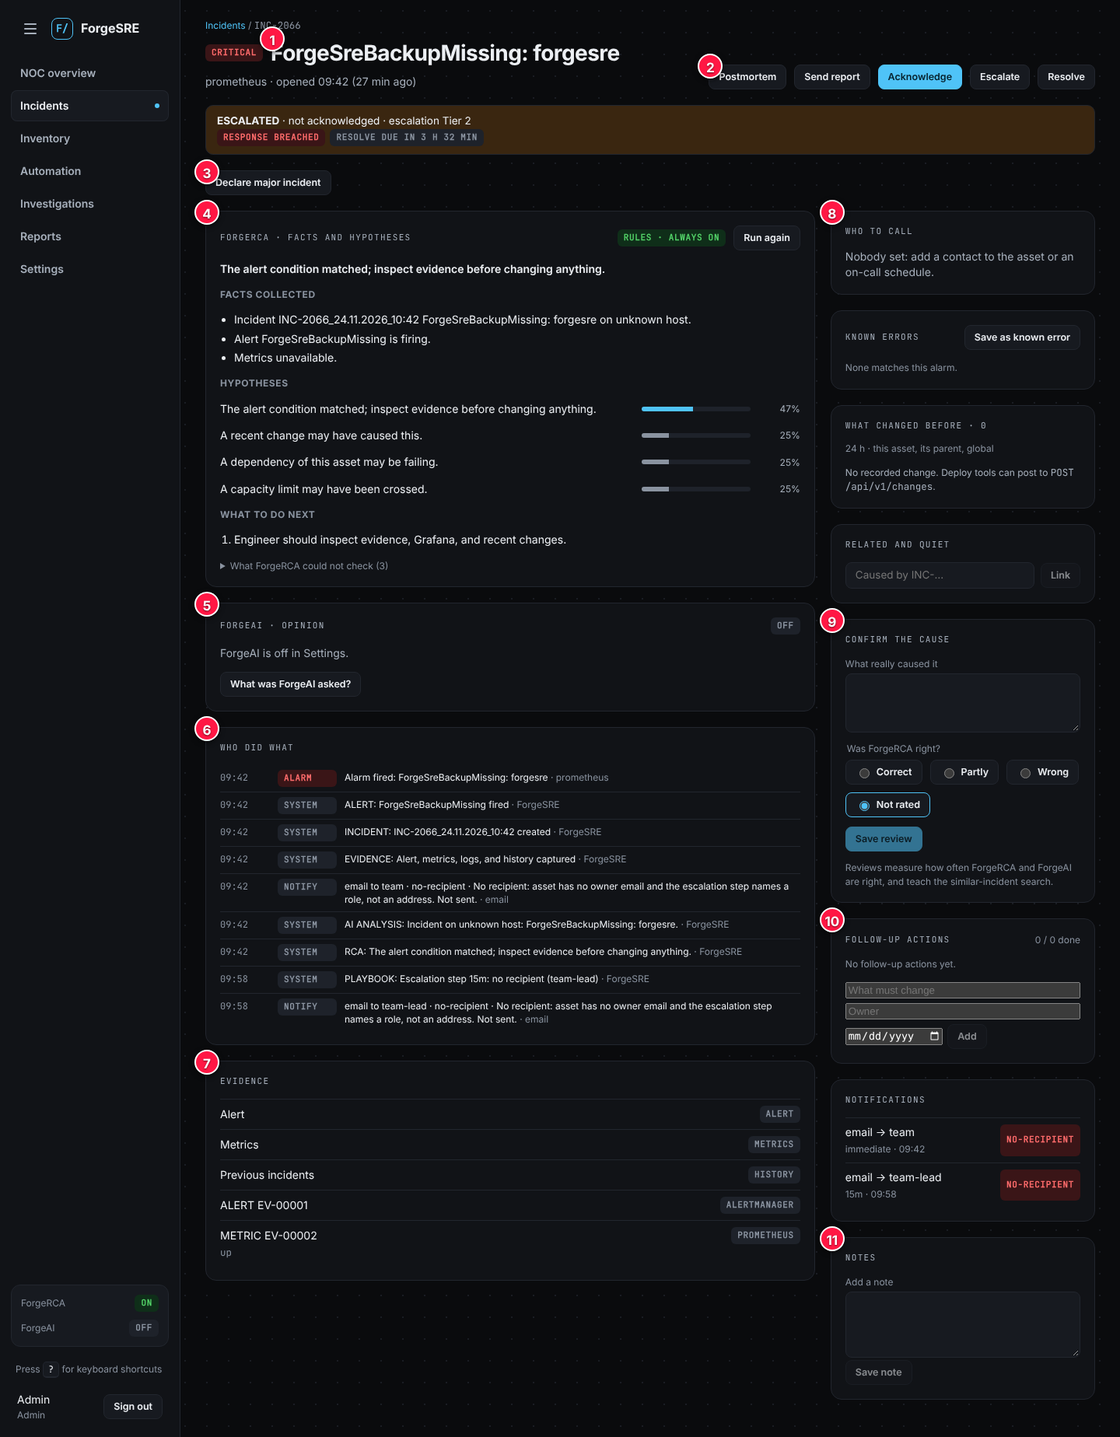
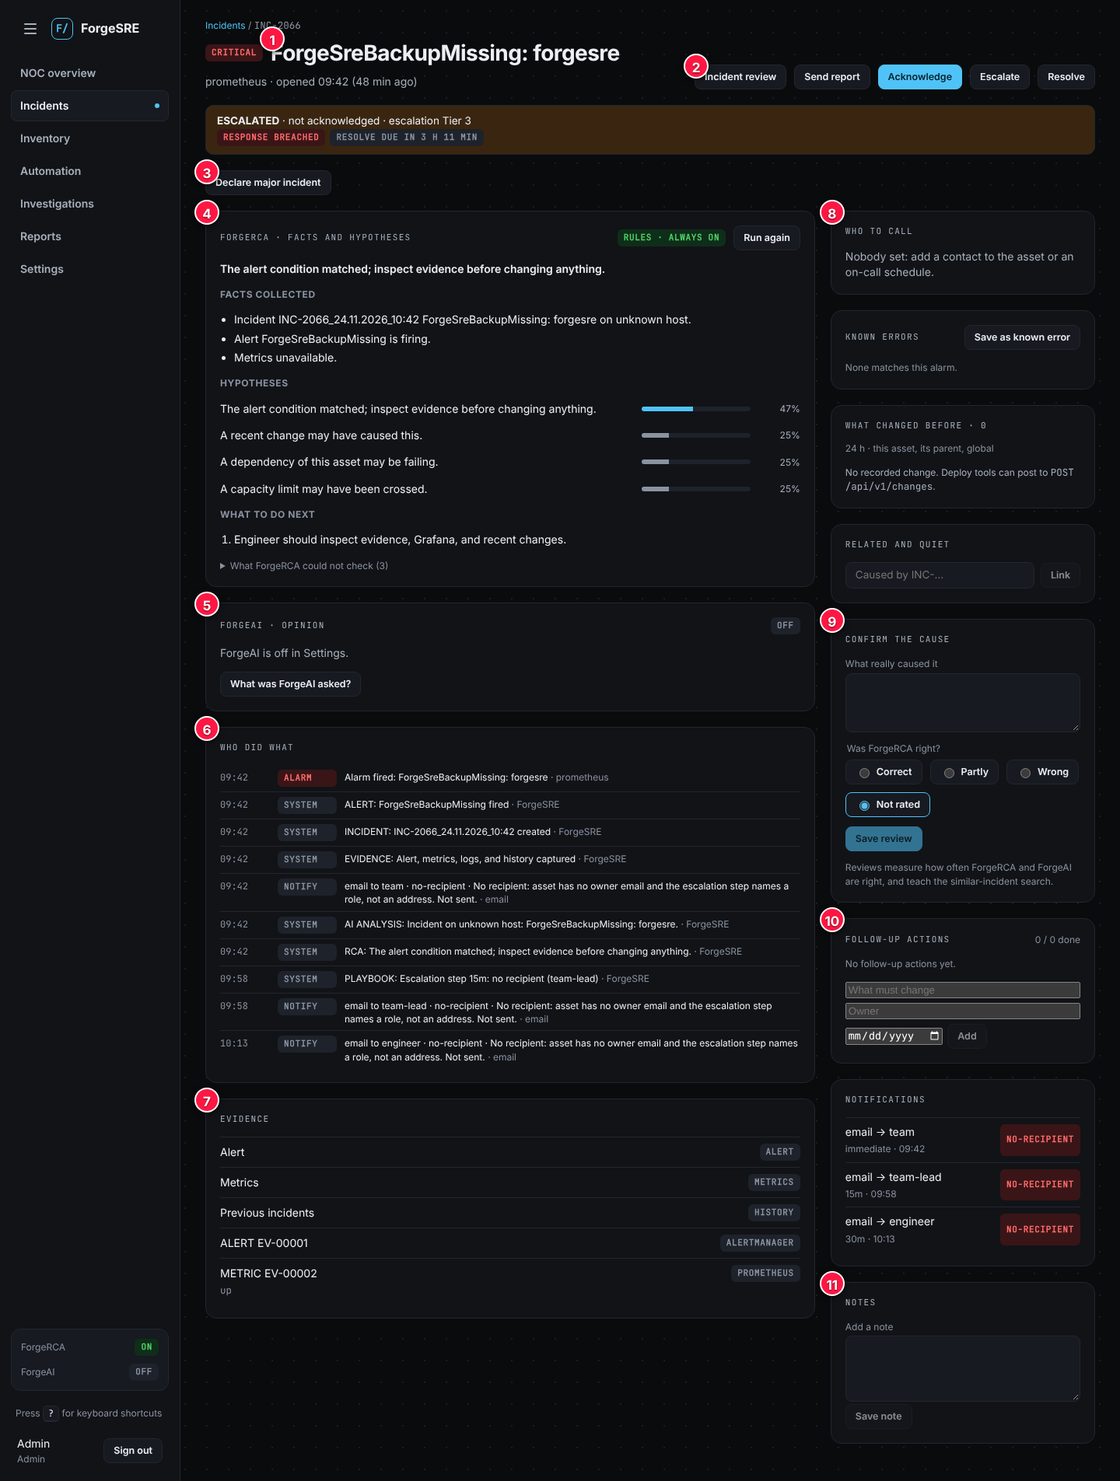
Rename Postmortem to Incident review in the UI, the draft and the docs; fix a dated Oxidized test (#255)
Claude-Session: https://claude.ai/code/session_01K9hus2JZBeXGjiRoAgeJJH

diff --git a/web/src/components/ForgeAiCard.tsx b/web/src/components/ForgeAiCard.tsx
@@ -23,7 +23,7 @@ export type Call = {
 };
 
 const STATUS_TONE: Record<string, "ok" | "crit" | "warn" | "off"> = { used: "ok", rejected: "warn", error: "crit", trial: "off" };
-const TASK: Record<string, string> = { incident: "Cause and first checks", investigate: "Investigation with tools", explain: "Explain for Tier 1", postmortem: "Postmortem summary", ask: "Your question", shift: "Shift summary" };
+const TASK: Record<string, string> = { incident: "Cause and first checks", investigate: "Investigation with tools", explain: "Explain for Tier 1", postmortem: "Incident review summary", ask: "Your question", shift: "Shift summary" };
 
 function pretty(text = ""): string {
   try {
@@ -85,7 +85,7 @@ export function CallLog({ calls }: { calls: Call[] }) {
   );
 }
 
-/** ForgeAI on the incident page: the checked answer, explain / postmortem, ask again with another skill, the call log. */
+/** ForgeAI on the incident page: the checked answer, explain / incident review, ask again with another skill, the call log. */
 export function ForgeAiCard({ number, view, canAsk, onChanged }: { number: string; view: ForgeAiView; canAsk: boolean; onChanged: () => void }) {
   const [skill, setSkill] = useState("");
   const [busy, setBusy] = useState("");
@@ -157,7 +157,7 @@ export function ForgeAiCard({ number, view, canAsk, onChanged }: { number: strin
       ) : null}
       {view.extras?.postmortem ? (
         <div className="cell-stack" style={{ gap: 4, borderTop: "1px solid var(--border)", paddingTop: 8 }}>
-          <span className="small faint">Postmortem summary (goes into the Postmortem draft)</span>
+          <span className="small faint">Incident review summary (goes into the incident review draft)</span>
           <span>{view.extras.postmortem.answer.paragraph}</span>
         </div>
       ) : null}
@@ -191,7 +191,7 @@ export function ForgeAiCard({ number, view, canAsk, onChanged }: { number: strin
           <button className="btn" type="button" disabled={Boolean(busy)} onClick={() => ask("incident", "Asking…")}>{busy === "Asking…" ? busy : a ? "Ask again" : "Ask ForgeAI"}</button>
           <button className="btn" type="button" disabled={Boolean(busy)} onClick={() => ask("investigate", "Investigating…")} title="Several steps with read-only tools: metrics, logs, interfaces, similar incidents (1–4 min)">{busy === "Investigating…" ? busy : "Investigate with tools"}</button>
           <button className="btn" type="button" disabled={Boolean(busy)} onClick={() => ask("explain", "Explaining…")}>{busy === "Explaining…" ? busy : "Explain for Tier 1"}</button>
-          <button className="btn" type="button" disabled={Boolean(busy)} onClick={() => ask("postmortem", "Writing…")}>{busy === "Writing…" ? busy : "Postmortem summary"}</button>
+          <button className="btn" type="button" disabled={Boolean(busy)} onClick={() => ask("postmortem", "Writing…")}>{busy === "Writing…" ? busy : "Incident review summary"}</button>
         </div>
       ) : null}
       {busy ? <span className="small faint">The local model takes 30–90 seconds. You can leave this page; the answer stays on the incident.</span> : null}

diff --git a/web/src/components/PostmortemPanel.tsx b/web/src/components/PostmortemPanel.tsx
@@ -2,7 +2,7 @@ import { useEffect, useState } from "react";
 import { getJson } from "../lib/api";
 import { Card } from "./ui";
 
-/** Postmortem draft for one incident: preview, copy, download .md. Gaps are marked [to fill]. */
+/** Incident review (postmortem) draft for one incident: preview, copy, download .md. Gaps are marked [to fill]. */
 export function PostmortemPanel({ number, onClose }: { number: string; onClose: () => void }) {
   const [text, setText] = useState("");
   const [error, setError] = useState("");
@@ -13,7 +13,7 @@ export function PostmortemPanel({ number, onClose }: { number: string; onClose: 
   const copy = () => navigator.clipboard?.writeText(text).then(() => setCopied(true)).catch(() => setError("Copy is blocked here; use Download."));
   const gaps = (text.match(/\[to fill\]/g) ?? []).length;
   return (
-    <Card title="Postmortem draft" actions={
+    <Card title="Incident review draft" actions={
       <>
         <span className="small faint">{gaps ? `${gaps} gaps to fill in the review` : ""}</span>
         <button className="btn" type="button" onClick={copy} disabled={!text}>{copied ? "Copied" : "Copy Markdown"}</button>

diff --git a/web/src/components/PostmortemPanel.test.tsx b/web/src/components/PostmortemPanel.test.tsx
@@ -5,7 +5,7 @@ import { PostmortemPanel } from "./PostmortemPanel";
 describe("Postmortem panel", () => {
   afterEach(() => (cleanup(), vi.unstubAllGlobals()));
   it("shows the draft, counts the gaps and offers a download", async () => {
-    vi.stubGlobal("fetch", vi.fn(async () => new Response(JSON.stringify({ markdown: "# Postmortem: INC-1\n\n- [to fill]\n| [to fill] | [to fill] |\n" }), { status: 200, headers: { "Content-Type": "application/json" } })));
+    vi.stubGlobal("fetch", vi.fn(async () => new Response(JSON.stringify({ markdown: "# Incident review: INC-1\n\n- [to fill]\n| [to fill] | [to fill] |\n" }), { status: 200, headers: { "Content-Type": "application/json" } })));
     render(<PostmortemPanel number="INC-1" onClose={() => undefined} />);
     expect(await screen.findByText("3 gaps to fill in the review")).toBeTruthy();
     expect(screen.getByRole("link", { name: "Download .md" }).getAttribute("href")).toBe("/api/v1/incidents/INC-1/postmortem?download=1");

diff --git a/web/src/pages/IncidentDetail.tsx b/web/src/pages/IncidentDetail.tsx
@@ -75,7 +75,7 @@ export function IncidentDetailPage() {
           </span>
         </div>
         <div className="row">
-          <button className="btn" type="button" onClick={() => setPostmortem(!postmortem)} aria-expanded={postmortem}>Postmortem</button>
+          <button className="btn" type="button" onClick={() => setPostmortem(!postmortem)} aria-expanded={postmortem}>Incident review</button>
           {data.can.work ? <button className="btn" type="button" onClick={() => setMail(!mail)} aria-expanded={mail}>Send report</button> : null}
           {data.ticket ? (
             <a className="btn" href={data.ticket.url} target="_blank" rel="noopener noreferrer">Ticket {data.ticket.ref.replace("glpi:", "#")}{data.ticket.status ? ` · ${data.ticket.status}` : ""}</a>

diff --git a/tests/test_network_config.py b/tests/test_network_config.py
@@ -2,13 +2,12 @@
 
 from __future__ import annotations
 
+from datetime import timedelta
 from pathlib import Path
 from uuid import uuid4
 
 import pytest
 import yaml
-from fastapi.testclient import TestClient
-
 from app.changes import changes_before
 from app.cli_ops import format_network
 from app.db import Base, SessionLocal, engine
@@ -18,6 +17,7 @@ from app.models import Asset, ChangeEvent, ConfigNode, Incident, utcnow
 from app.network_view import overview, routing_metrics_on
 from app.oxidized import sync
 from app.seed import seed
+from fastapi.testclient import TestClient
 from test_incident_tools import _client
 
 ROOT = Path(__file__).resolve().parents[1]
@@ -101,12 +101,14 @@ def test_oxidized_first_read_is_baseline_then_changes_are_recorded(monkeypatch):
     db = _db()
     db.add(Asset(asset_id="nc-core", hostname="nc-core", ip=_ip(), type="Router"))
     db.commit()
-    nodes = [{"name": "nc-core", "full_name": "nc-dc1/nc-core", "ip": "10.9.9.1", "model": "ios", "mtime": "2026-11-23 08:00:00 UTC", "last": {"status": "success"}},
-             {"name": "nc-unknown", "full_name": "nc-dc1/nc-unknown", "ip": "10.9.9.2", "mtime": "2026-11-23 08:00:00 UTC", "last": {"status": "no_connection"}}]
+    # mtimes relative to now: the incident below looks back 24 hours for changes
+    at = lambda hours_ago: (utcnow() - timedelta(hours=hours_ago)).strftime("%Y-%m-%d %H:%M:%S UTC")  # noqa: E731
+    nodes = [{"name": "nc-core", "full_name": "nc-dc1/nc-core", "ip": "10.9.9.1", "model": "ios", "mtime": at(3), "last": {"status": "success"}},
+             {"name": "nc-unknown", "full_name": "nc-dc1/nc-unknown", "ip": "10.9.9.2", "mtime": at(3), "last": {"status": "no_connection"}}]
     first = sync(db, nodes)
     assert first == {"nodes": 2, "changed": 0, "failed_backups": 1}
-    nodes[0]["mtime"] = "2026-11-23 10:15:00 UTC"
-    nodes[1]["mtime"] = "2026-11-23 10:20:00 UTC"
+    nodes[0]["mtime"] = at(1)
+    nodes[1]["mtime"] = at(0.5)
     second = sync(db, nodes)
     assert second["changed"] == 2
     rows = {r.title: r for r in db.query(ChangeEvent).filter(ChangeEvent.source == "oxidized").all()}

diff --git a/tests/test_postmortem.py b/tests/test_postmortem.py
@@ -1,4 +1,4 @@
-"""Postmortem draft: facts from the incident, gaps marked, file download."""
+"""Incident review (postmortem) draft: facts from the incident, gaps marked, file download."""
 
 from __future__ import annotations
 
@@ -32,8 +32,8 @@ def test_postmortem_has_facts_and_marks_gaps():
     client = _signed_in("viewer")
     data = client.get(f"/api/v1/incidents/INC-P{tag}/postmortem").json()
     md = data["markdown"]
-    assert data["filename"] == f"postmortem-INC-P{tag}.md"
-    assert md.startswith(f"# Postmortem: INC-P{tag} · Uplink down")
+    assert data["filename"] == f"incident-review-INC-P{tag}.md"
+    assert md.startswith(f"# Incident review: INC-P{tag} · Uplink down")
     assert "after 7 min" in md and "after 1 h 35 min" in md
     assert "3 asset(s) sit behind" in md
     assert "Failed SFP on Gi1/0/48 *(from the incident review by marko@dc.local)*" in md
@@ -42,5 +42,5 @@ def test_postmortem_has_facts_and_marks_gaps():
     assert md.count("[to fill]") >= 5
     file = client.get(f"/api/v1/incidents/INC-P{tag}/postmortem?download=1")
     assert file.status_code == 200 and file.headers["content-type"].startswith("text/markdown")
-    assert f'filename="postmortem-INC-P{tag}.md"' in file.headers["content-disposition"]
+    assert f'filename="incident-review-INC-P{tag}.md"' in file.headers["content-disposition"]
     assert client.get("/api/v1/incidents/INC-NOPE/postmortem").status_code == 404

diff --git a/scripts/visual_guide.py b/scripts/visual_guide.py
@@ -115,8 +115,8 @@ PAGES: list[Page] = [
          "Everything about one incident: what happened, what ForgeRCA thinks, who did what.",
          "Sve o jednom incidentu: šta se desilo, šta misli ForgeRCA, ko je šta uradio.", [
              Step("main h1", "Severity and name; source and when it opened under it.", "Ozbiljnost i ime; ispod izvor i kada je otvoren."),
-             Step("button:has-text('Acknowledge') >> xpath=..", "Actions: postmortem, send report, Acknowledge, Escalate, Resolve.",
-                  "Akcije: postmortem, slanje izveštaja, Acknowledge (potvrdi), Escalate (eskaliraj), Resolve (reši)."),
+             Step("button:has-text('Acknowledge') >> xpath=..", "Actions: incident review, send report, Acknowledge, Escalate, Resolve.",
+                  "Akcije: incident review, slanje izveštaja, Acknowledge (potvrdi), Escalate (eskaliraj), Resolve (reši)."),
              Step("text=Declare major incident", "Declare a major incident: a commander and regular updates.", "Proglasi veliki incident: komandant i redovna obaveštenja."),
              Step(card("ForgeRCA"), "ForgeRCA: facts collected, hypotheses with weights, what to do next.", "ForgeRCA: prikupljene činjenice, hipoteze sa težinama, šta dalje."),
              Step(card("ForgeAI"), "ForgeAI: the local model's opinion (when it is on).", "ForgeAI: mišljenje lokalnog modela (kad je uključen)."),

diff --git a/backend/app/forgeai.py b/backend/app/forgeai.py
@@ -112,7 +112,7 @@ TASKS: dict[str, dict[str, Any]] = {
         "max_tokens": 500,
     },
     "postmortem": {
-        "label": "Postmortem summary",
+        "label": "Incident review summary",
         "shape": '{"paragraph": "one paragraph, 4-7 sentences"}',
         "fields": {"paragraph": 1400},
         "lists": {},
@@ -199,8 +199,8 @@ BUILTIN: list[tuple[str, str, str, list[str], list[str], int, dict[str, bool], s
     ("explain-generic", "Explain for Tier 1", "explain", [], [], 1000, {"similar": False, "changes": False},
      "Explain to a new Tier 1 operator what this alarm means on this kind of asset, without jargon. Say "
      "why it matters for users and how urgent it is from the severity. Do not guess the cause."),
-    ("postmortem-generic", "Postmortem summary", "postmortem", [], [], 1000, {"syslog": False},
-     "Write the summary paragraph of a blameless postmortem: what happened, when, impact, how it was "
+    ("postmortem-generic", "Incident review summary", "postmortem", [], [], 1000, {"syslog": False},
+     "Write the summary paragraph of a blameless incident review: what happened, when, impact, how it was "
      "found and fixed, and the confirmed cause if there is one. Use the notes and the timeline. Mark "
      "anything not in the facts as unknown."),
     ("ask-generic", "Operator question", "ask", [], [], 1000, {},

diff --git a/backend/app/api.py b/backend/app/api.py
@@ -4225,14 +4225,14 @@ def audit_api(
 
 @router.get("/incidents/{number}/postmortem")
 def incident_postmortem_api(number: str, download: int = 0, db: Session = Depends(get_db), user: User = Depends(require("read_incidents"))):
-    """Postmortem draft (Markdown) from the incident's facts. ``download=1`` returns the .md file."""
+    """Incident review (postmortem) draft (Markdown) from the incident's facts. ``download=1`` returns the .md file."""
     from app.postmortem import postmortem_markdown
 
     item = db.query(Incident).filter_by(number=number).first()
     if item is None:
         raise HTTPException(status_code=404, detail="incident not found")
     text = postmortem_markdown(db, item, user)
-    name = f"postmortem-{item.number}.md"
+    name = f"incident-review-{item.number}.md"
     if download:
         return Response(text, media_type="text/markdown; charset=utf-8", headers={"Content-Disposition": f'attachment; filename="{name}"'})
     return {"markdown": text, "filename": name}

diff --git a/backend/app/postmortem.py b/backend/app/postmortem.py
@@ -65,7 +65,7 @@ def postmortem_markdown(db: Session, incident: Incident, user: User) -> str:
     rca = v.get("forgerca") or {}
     cause = review["root_cause"] or ""
     out: list[str] = [
-        f"# Postmortem: {v['number']} · {v['title']}",
+        f"# Incident review: {v['number']} · {v['title']}",
         "",
         f"*Draft generated by ForgeSRE on {datetime.now(ZoneInfo(settings.timezone or 'UTC')).strftime('%Y-%m-%d %H:%M')}. "
         "Blameless: describe what the system and the process did, not who is at fault.*",

diff --git a/docs/llm.md b/docs/llm.md
@@ -21,7 +21,7 @@ Two names in the UI:
 |---|---|---|
 | Cause and first checks | automatically after ForgeRCA, or **Ask again** on the incident | likely cause, up to 3 first checks, one line for the shift lead |
 | Explain for Tier 1 | button on the incident | what the alarm means in plain words, why it matters |
-| Postmortem summary | button on the incident | one paragraph; goes into the Postmortem draft as "In short" |
+| Incident review summary | button on the incident | one paragraph; goes into the incident review draft as "In short" |
 | Shift handover | button on the NOC page | the last 12 hours, what is still open, what to watch |
 
 **Skills** are the editable part: when a skill applies (alert name patterns, asset types) and its
@@ -47,7 +47,7 @@ an operator can ask again with another one. Every prompt is built as:
 
 **Vendor documents (RAG).** Engineers upload manuals and runbooks (PDF with a text layer, text, Markdown, HTML; up to 30 MB) in **Automation › ForgeAI** or **Settings › RCA / AI › Documents**. The `doc_index` job extracts the text (`pypdf`), cuts it into pieces of about 1 200 characters and asks the local embedding server for one vector per piece; the upload itself is then dropped and only the text is kept (it is in the database backup). The embedding server is a second llama.cpp container, `embed` (profile `ai`, 127.0.0.1:8089, `--embedding`), running **nomic-embed-text v1.5** (Q8_0, about 146 MB, 768 dimensions) from `data/models/embed/`; `./forgesre fetch-llm` downloads it. Every ForgeAI incident question and every operator question then gets the three closest pieces as `vendor_docs` D1–D3 (skill include `docs`, on by default), and the model may cite them as [D1]. Search runs in SQL with **pgvector** (an HNSW index) — the `postgres` service is now `postgres:16-alpine` built with pgvector (`postgres/Dockerfile`), so existing data directories keep working — and in Python on databases without the extension. No embedder or a slow one only means a prompt without documents. API: `GET/POST /api/v1/forgeai/docs`, `DELETE /api/v1/forgeai/docs/{id}`, `POST …/{id}/reindex`, `GET /api/v1/forgeai/docs/search?q=`. CLI: `./forgesre forgeai docs`. Doctor row **Document search (embeddings)**: paused until a document is uploaded. Code: `backend/app/doc_search.py`, `backend/app/embeddings.py`.
 
-**ForgeAI chat (Investigations › Ask ForgeAI, and the incident page).** One place to talk with the model, like a desktop chat app. **Investigations › Ask ForgeAI** (bottom of the page) lists your chats on the left (private: nobody else sees them, Admins included) and the open one on the right; **Ask** on an investigation row opens (or reuses) your chat about that incident, and an incident chat also shows *What ForgeAI found on its own*. The old `/app/forgeai?chat=…` links redirect there; there is no separate ForgeAI menu item. A chat is either **general** (questions about networks, servers, databases and monitoring; the model may use general knowledge, rules `CHAT_RULES`) or **about one incident** (open it from the incident page, Investigations, or type `INC-…` in Ask ForgeAI; every message then carries that incident's facts, playbook, similar incidents and matching manual excerpts). Type **/** (or press **Skills**) to pick a skill: chat skills always; on an incident chat also *cause and first checks*, explain, postmortem and *investigate with tools*, each run as a **trial**. An Engineer can press **Use as the incident's answer** on a cause-and-first-checks answer (audited `forgeai.use`). The last 6 turns go with each message as `earlier_in_this_chat`. Each message is a background job `forgeai_chat` on the LLM lane, at most 3 waiting per person; a crash or restart marks the answer failed instead of leaving it waiting. Checks: an incident chat has the usual ones (no IP or number that is not in the facts, no shell command); a general chat keeps only the shell-command check. Engineers can switch one message to the **Cloud** model (same rules as below). Every answer is a logged ForgeAI call with its prompt and 👍 / 👎. Skill *Chat* (`chat-generic`, task `chat`) is tunable in Automation like the others. The incident page keeps **What ForgeAI found on its own** (with the cloud **Second opinion**) next to the chat. API (Analyst+): `GET/POST /api/v1/forgeai/chats` `{title?, incident?, reuse?}`, `GET/DELETE /api/v1/forgeai/chats/{id}`, `POST /api/v1/forgeai/chats/{id}/messages` `{text, skill?, cloud?}`. The older `POST /api/v1/incidents/{number}/forgeai/ask` still works for scripts. Code: `backend/app/forgeai_chat.py`, `web/src/components/ForgeAiChat.tsx`.
+**ForgeAI chat (Investigations › Ask ForgeAI, and the incident page).** One place to talk with the model, like a desktop chat app. **Investigations › Ask ForgeAI** (bottom of the page) lists your chats on the left (private: nobody else sees them, Admins included) and the open one on the right; **Ask** on an investigation row opens (or reuses) your chat about that incident, and an incident chat also shows *What ForgeAI found on its own*. The old `/app/forgeai?chat=…` links redirect there; there is no separate ForgeAI menu item. A chat is either **general** (questions about networks, servers, databases and monitoring; the model may use general knowledge, rules `CHAT_RULES`) or **about one incident** (open it from the incident page, Investigations, or type `INC-…` in Ask ForgeAI; every message then carries that incident's facts, playbook, similar incidents and matching manual excerpts). Type **/** (or press **Skills**) to pick a skill: chat skills always; on an incident chat also *cause and first checks*, explain, incident review summary and *investigate with tools*, each run as a **trial**. An Engineer can press **Use as the incident's answer** on a cause-and-first-checks answer (audited `forgeai.use`). The last 6 turns go with each message as `earlier_in_this_chat`. Each message is a background job `forgeai_chat` on the LLM lane, at most 3 waiting per person; a crash or restart marks the answer failed instead of leaving it waiting. Checks: an incident chat has the usual ones (no IP or number that is not in the facts, no shell command); a general chat keeps only the shell-command check. Engineers can switch one message to the **Cloud** model (same rules as below). Every answer is a logged ForgeAI call with its prompt and 👍 / 👎. Skill *Chat* (`chat-generic`, task `chat`) is tunable in Automation like the others. The incident page keeps **What ForgeAI found on its own** (with the cloud **Second opinion**) next to the chat. API (Analyst+): `GET/POST /api/v1/forgeai/chats` `{title?, incident?, reuse?}`, `GET/DELETE /api/v1/forgeai/chats/{id}`, `POST /api/v1/forgeai/chats/{id}/messages` `{text, skill?, cloud?}`. The older `POST /api/v1/incidents/{number}/forgeai/ask` still works for scripts. Code: `backend/app/forgeai_chat.py`, `web/src/components/ForgeAiChat.tsx`.
 
 **Is it working? (status line, test, live progress).** Every ForgeAI chat (Investigations › Ask ForgeAI and the incident
 page) starts with one small line: **model** (the GGUF llama.cpp has loaded), **connection** (llama.cpp

diff --git a/docs/guide/02-daily-work.md b/docs/guide/02-daily-work.md
@@ -38,7 +38,7 @@ Click a row to open it.
    **ForgeAI** (when it is on) then asks the local model once, with the skill that fits the
    alarm, for the likely cause, the first three checks and a line for the shift lead. Answers
    that contain a number, IP or command not in the facts are thrown away. **Explain for Tier 1**
-   and **Postmortem summary** ask for more; **What was ForgeAI asked?** shows the exact prompt
+   and **Incident review summary** ask for more; **What was ForgeAI asked?** shows the exact prompt
    and the model's answer word for word. 👍 / 👎 tells the team which skills work.
    **Investigate with tools** goes further (1–4 minutes): ForgeAI may look at a metric, the
    host's logs, the device's interfaces and similar incidents, then gives the cause with a
@@ -49,7 +49,7 @@ Click a row to open it.
    **Syslog around the start** from the device's own log.
 4. **Follow the playbook**, if the alarm has one: tick the steps as you go so the next
    person sees where you are.
-5. **Write notes** as you work. They end up in the timeline and the postmortem.
+5. **Write notes** as you work. They end up in the timeline and the incident review.
 6. **Resolve** when it is fixed, then fill *Confirm the cause*: what really caused it, and
    whether ForgeRCA was right. These reviews make the similar-incident search better.
 
@@ -68,9 +68,9 @@ All incidents, open and closed, with search, severity and a **From / To** day ra
 per page; use it to find "didn't this happen last month too?". **Export CSV** downloads the
 list with the same filters (UTF-8, opens in Excel with the right letters).
 
-## Postmortem
+## Incident review
 
-For anything worth a review meeting, press **Postmortem** on the incident. ForgeSRE writes
+For anything worth a review meeting, press **Incident review** on the incident. ForgeSRE writes
 a Markdown draft from what it knows: timeline, impact (what sits behind the asset), what
 changed, notes, the confirmed cause, the playbook. It invents nothing: every gap is marked
 `[to fill]`. Copy it or download the `.md` and paste it into your wiki.
